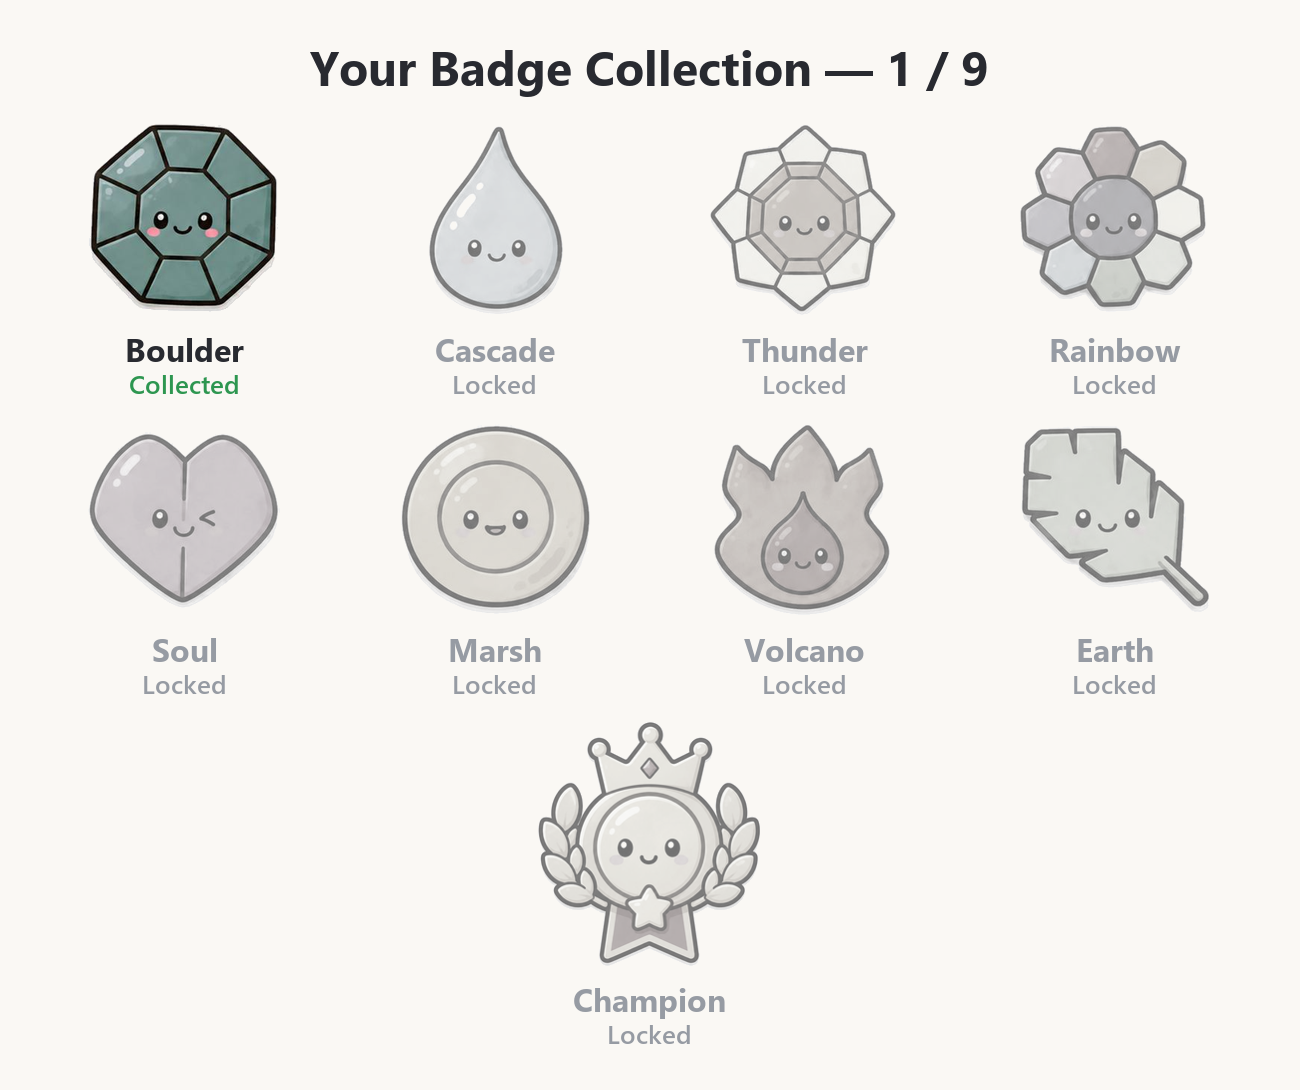
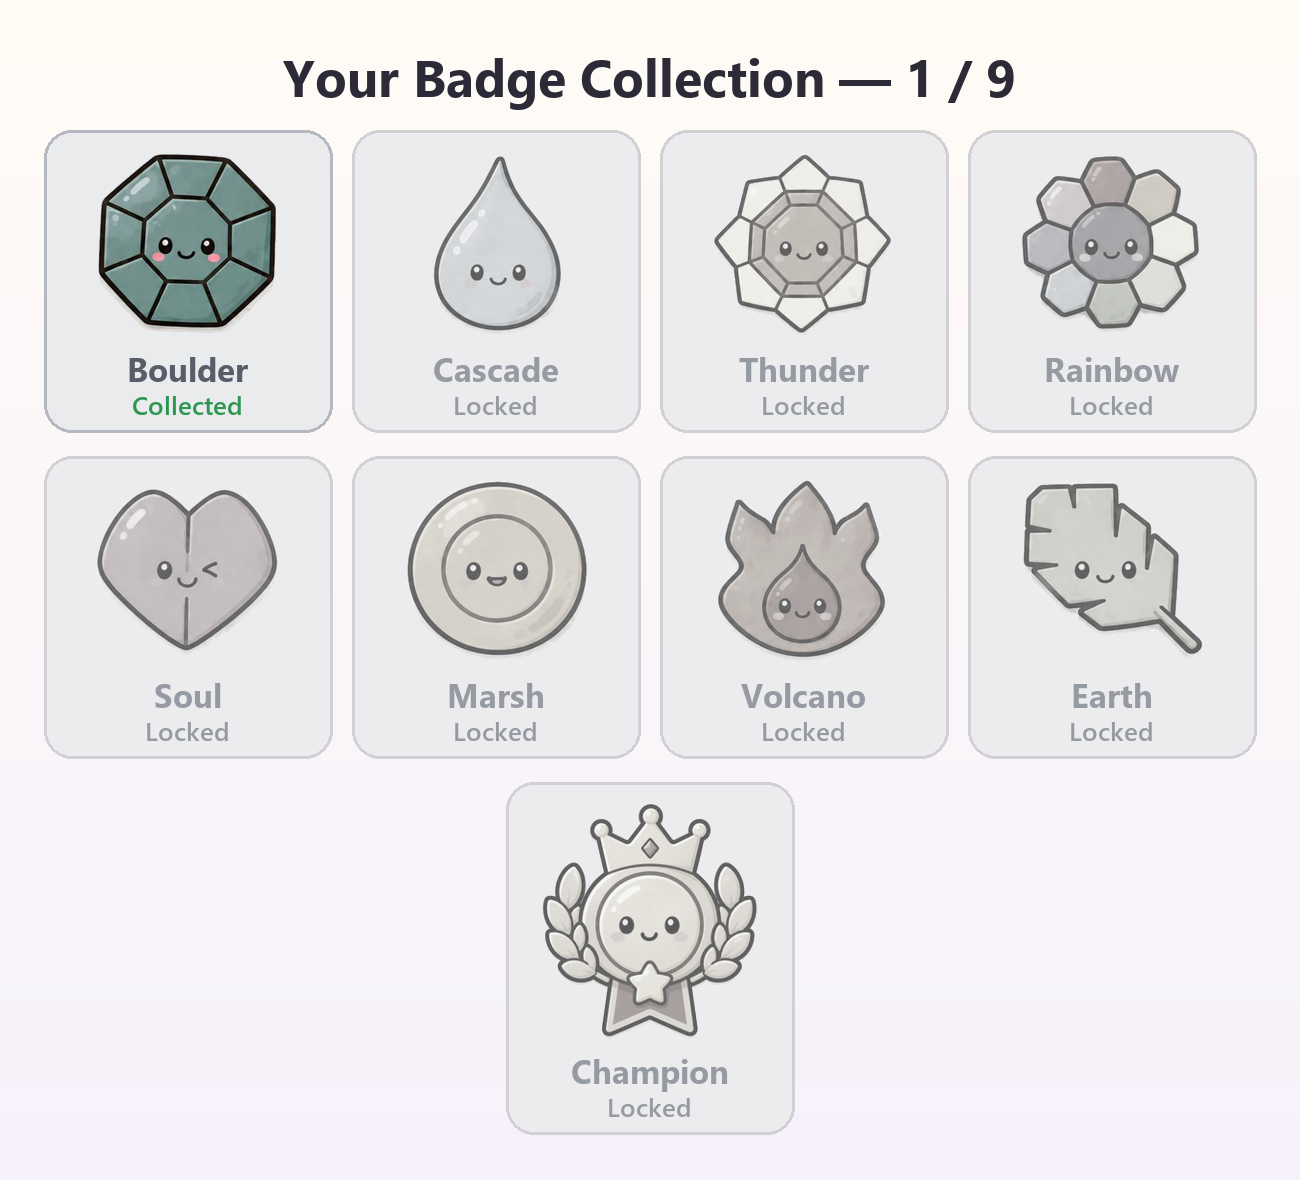
Loyalty: collection cards match the poster (tinted tiles)
Regenerated the 10 My Collection cards with the poster's look — collected badges
on their own colour-tinted tile with a coloured name, locked ones on a muted grey
tile, on the soft gradient background. Bumped BADGE_ASSET_VERSION to 7 to refetch
past Telegram's cache.

diff --git a/api/_inventory.js b/api/_inventory.js
@@ -876,7 +876,7 @@ export const BADGE_IMAGE_BASE = "https://raw.githubusercontent.com/fallacycardsh
 // This version tag is appended to every badge URL; bump it whenever the art is
 // regenerated so clients fetch the new file. (raw GitHub ignores the query and
 // serves the file; the changed URL is what busts the cache.)
-export const BADGE_ASSET_VERSION = "6";
+export const BADGE_ASSET_VERSION = "7";
 const BADGE_V = "?v=" + BADGE_ASSET_VERSION;
 export function badgeSlug(n) {
   const k = Number(n);
